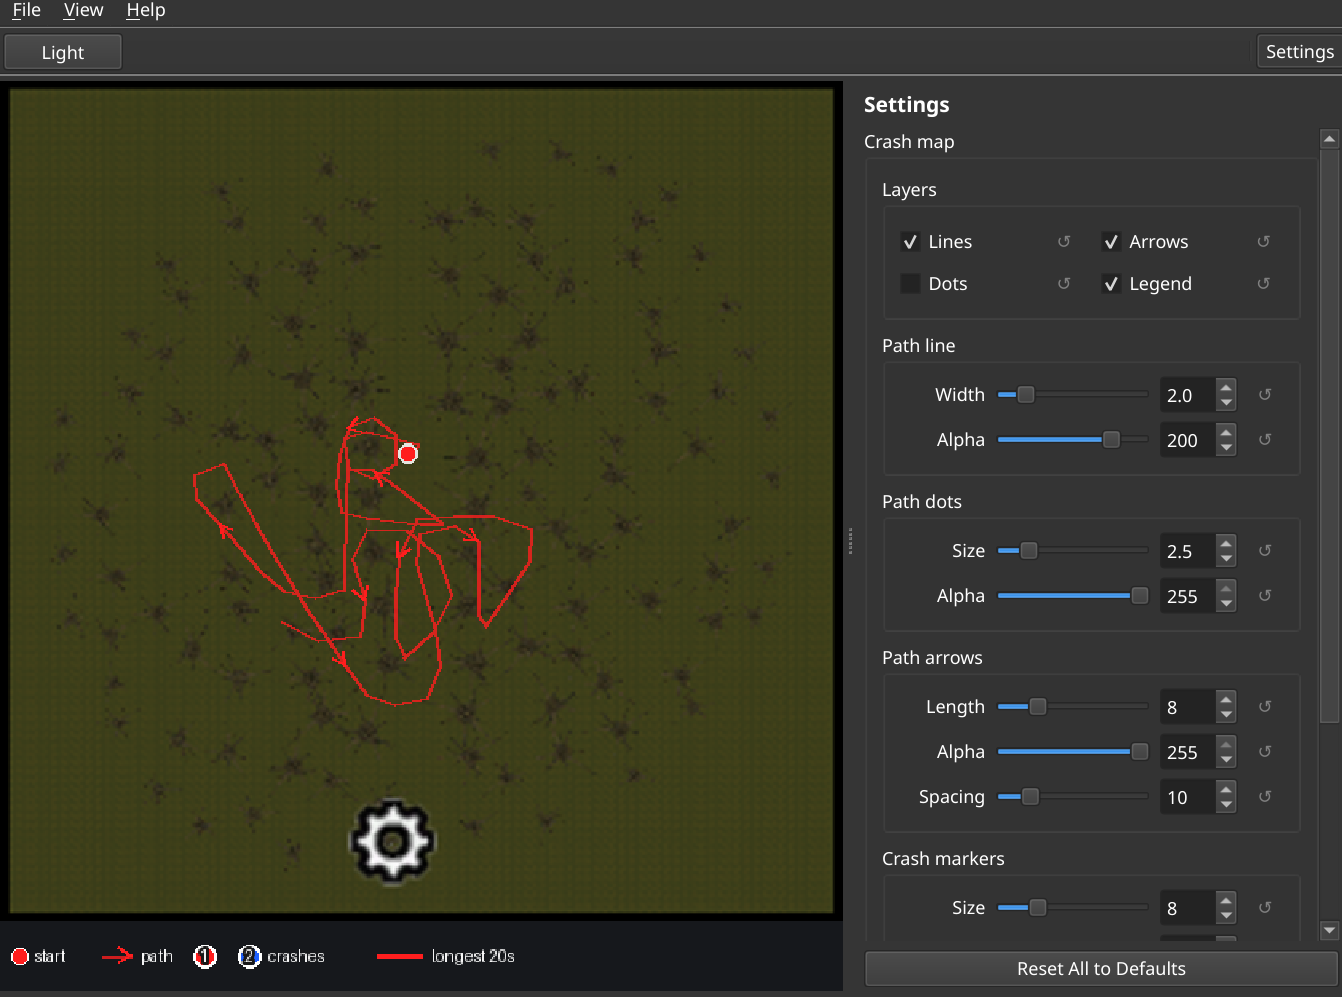
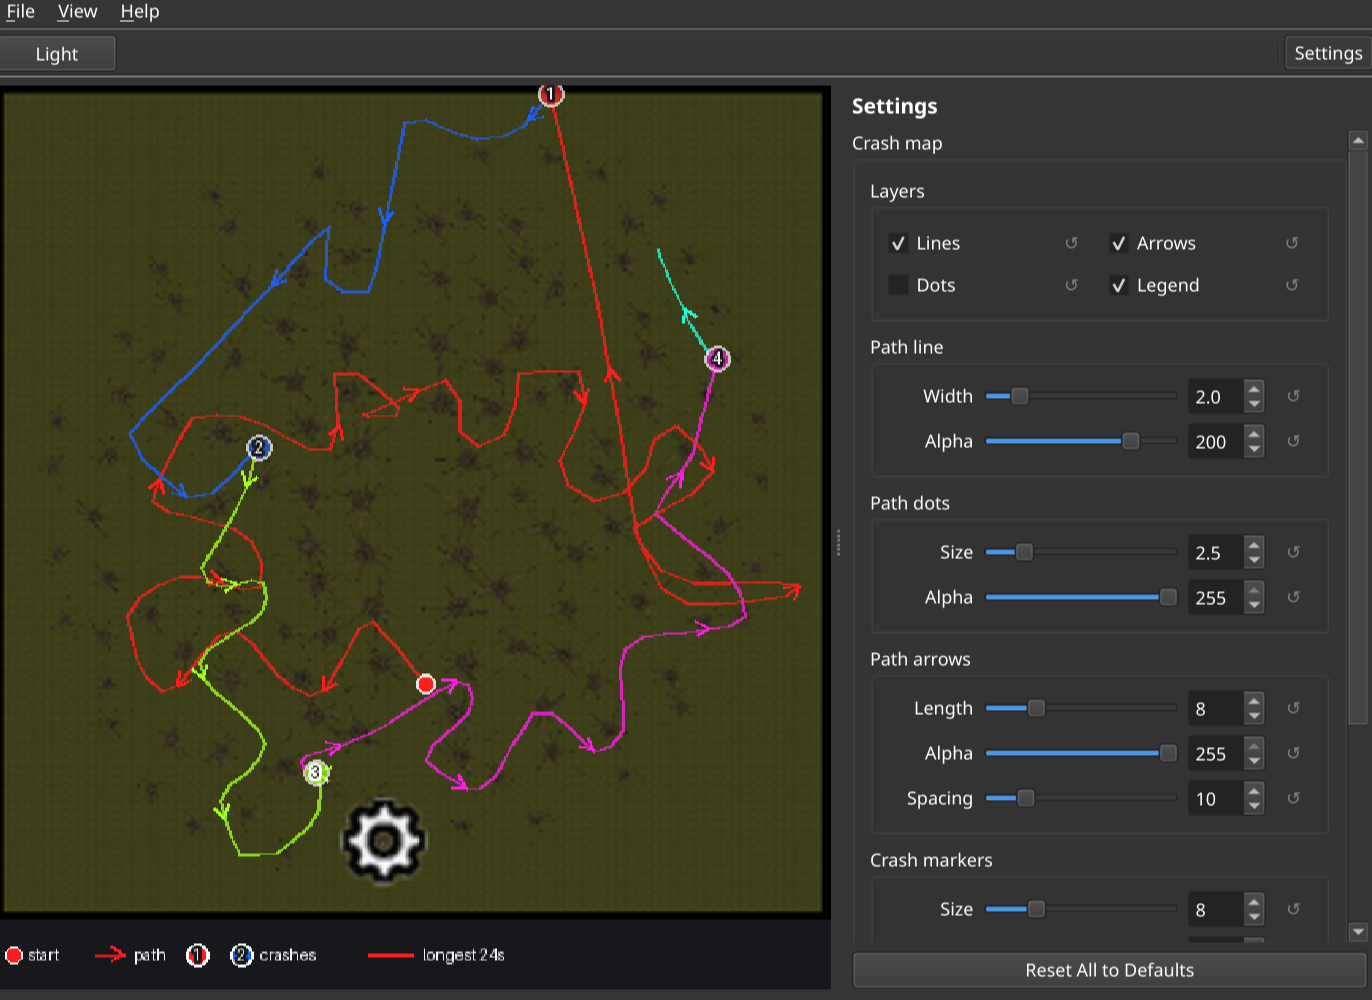
update readme

diff --git a/README.md b/README.md
@@ -21,13 +21,16 @@ If you want bomb-mode thunderspears, turn on Thunderspear PVP under Misc when cr
 
 <img src="docs/app-example.png" width="600" alt="Bombs Training viewer showing the crash map" />
 
+**Help->Keyboard shortcuts.**
+
+<img src="docs/app-shortcuts.png" width="600" alt="Bombs Training shortcuts" />
 
 ---
 
 ## Dev
 
 ```bash
-git clone https://github.com/YOUR_GITHUB/bombs-training.git && cd bombs-training
+git clone https://github.com/furizan/bombs-training.git && cd bombs-training
 python3 -m venv .venv && source .venv/bin/activate
 pip install -r requirements-dev.txt && python app.py
 ```